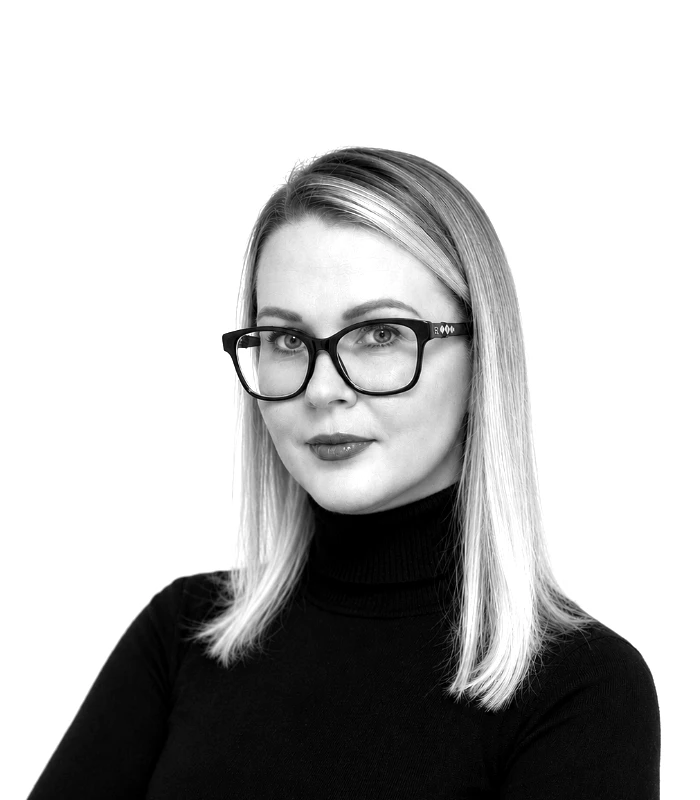
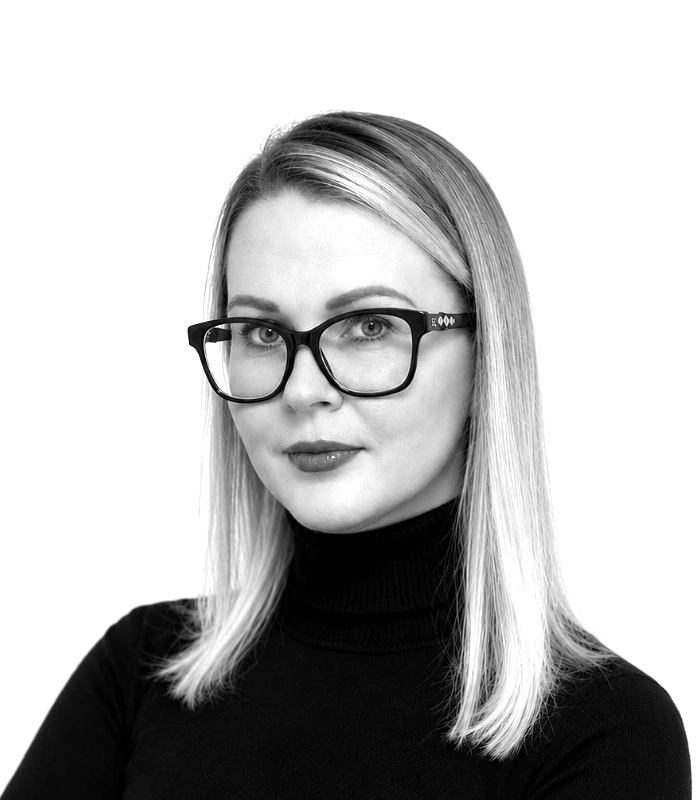
Portraits: no side stripes; Ksenia framed like the others

Changed region(s): [[0.0, 0.125, 0.93, 1.0], [0.93, 0.8438, 0.99, 1.0]]

diff --git a/css/style.css b/css/style.css
@@ -224,9 +224,7 @@ main{position:relative;z-index:1}
 .more-in{min-height:0;overflow:hidden;container-type:inline-size}
 .more .grid{--col:calc((100cqw - var(--gut) - var(--gut-r) - 4 * var(--gap)) / 5);display:flex;align-items:flex-start;gap:var(--gut);padding-top:var(--gut);padding-left:calc(var(--gut) + var(--role, 0px) + var(--gut));padding-bottom:var(--pic-top);position:relative;opacity:0;transition:opacity .25s ease}
 .member.open .more .grid{opacity:1;transition:opacity .4s ease .12s}
-/* A slight even white margin left and right of every portrait, 4% of its width (user 2026-11-17): the picture
-   keeps its 7:8 box and is cropped to the narrower space inside it, so every clip and photo gets the same gap. */
-.portrait{flex:0 0 var(--col);display:block;width:var(--col);height:auto;aspect-ratio:7 / 8;object-fit:cover;padding-inline:calc(var(--col) * .04);background:#fff}
+.portrait{flex:0 0 var(--col);display:block;width:var(--col);height:auto;aspect-ratio:7 / 8;object-fit:cover;background:var(--ink)}
 .txt{flex:0 1 calc(var(--col) * 2 + var(--gap));align-self:stretch;display:flex;flex-direction:column;gap:var(--gut)}
 /* The languages: a label and, a line lower, the list, on the bottom of the block (the portrait's bottom, the email's line). */
 .langs{margin-top:auto;color:var(--on-accent-mute)}
@@ -278,7 +276,7 @@ main{position:relative;z-index:1}
   .track .w{height:auto;line-height:inherit}
   .track .w + .w{display:none}
   .more .grid{display:grid;row-gap:var(--gut);padding-top:var(--gut);padding-left:var(--gut)}
-  .portrait{grid-column:1 / span 3;width:100%;padding-inline:calc((var(--col) * 3 + var(--gap) * 2) * .04)}
+  .portrait{grid-column:1 / span 3;width:100%}
   .who{margin-top:0}
   .more .grid{padding-bottom:var(--gut)}
   .mail{position:static}

diff --git a/index.html b/index.html
@@ -6,10 +6,10 @@
 <title>Legalia Advokaadibüroo</title>
 <meta name="theme-color" content="#f9f9f9">
 <link rel="icon" href="assets/logo.svg" type="image/svg+xml">
-<link rel="stylesheet" href="css/style.css?v=v2-66">
-<script src="js/i18n.js?v=v2-66" defer></script>
-<script src="js/main.js?v=v2-66" defer></script>
-<script src="js/intro.js?v=v2-66" defer></script>
+<link rel="stylesheet" href="css/style.css?v=v2-67">
+<script src="js/i18n.js?v=v2-67" defer></script>
+<script src="js/main.js?v=v2-67" defer></script>
+<script src="js/intro.js?v=v2-67" defer></script>
 </head>
 <body>
 <!-- All texts live in js/i18n.js. Elements here only carry their key (data-i18n for text, data-i18n-label for aria-label). -->
@@ -84,7 +84,7 @@
     </div>
     <div class="place">
       <!-- The office map (from the user's assets/icons/map.png, resized to 600px). -->
-      <a class="map" href="https://www.google.com/maps/search/?api=1&amp;query=Advokaadib%C3%BCroo+Legalia+O%C3%9C" target="_blank" rel="noopener" tabindex="-1" aria-hidden="true"><img src="assets/img/map.webp?v=v2-66" alt="" width="600" height="518" loading="lazy"></a>
+      <a class="map" href="https://www.google.com/maps/search/?api=1&amp;query=Advokaadib%C3%BCroo+Legalia+O%C3%9C" target="_blank" rel="noopener" tabindex="-1" aria-hidden="true"><img src="assets/img/map.webp?v=v2-67" alt="" width="600" height="518" loading="lazy"></a>
       <div class="where">
       <p class="addr" data-i18n="contact.address"></p>
       <a class="find" href="https://www.google.com/maps/search/?api=1&amp;query=Advokaadib%C3%BCroo+Legalia+O%C3%9C" target="_blank" rel="noopener">
